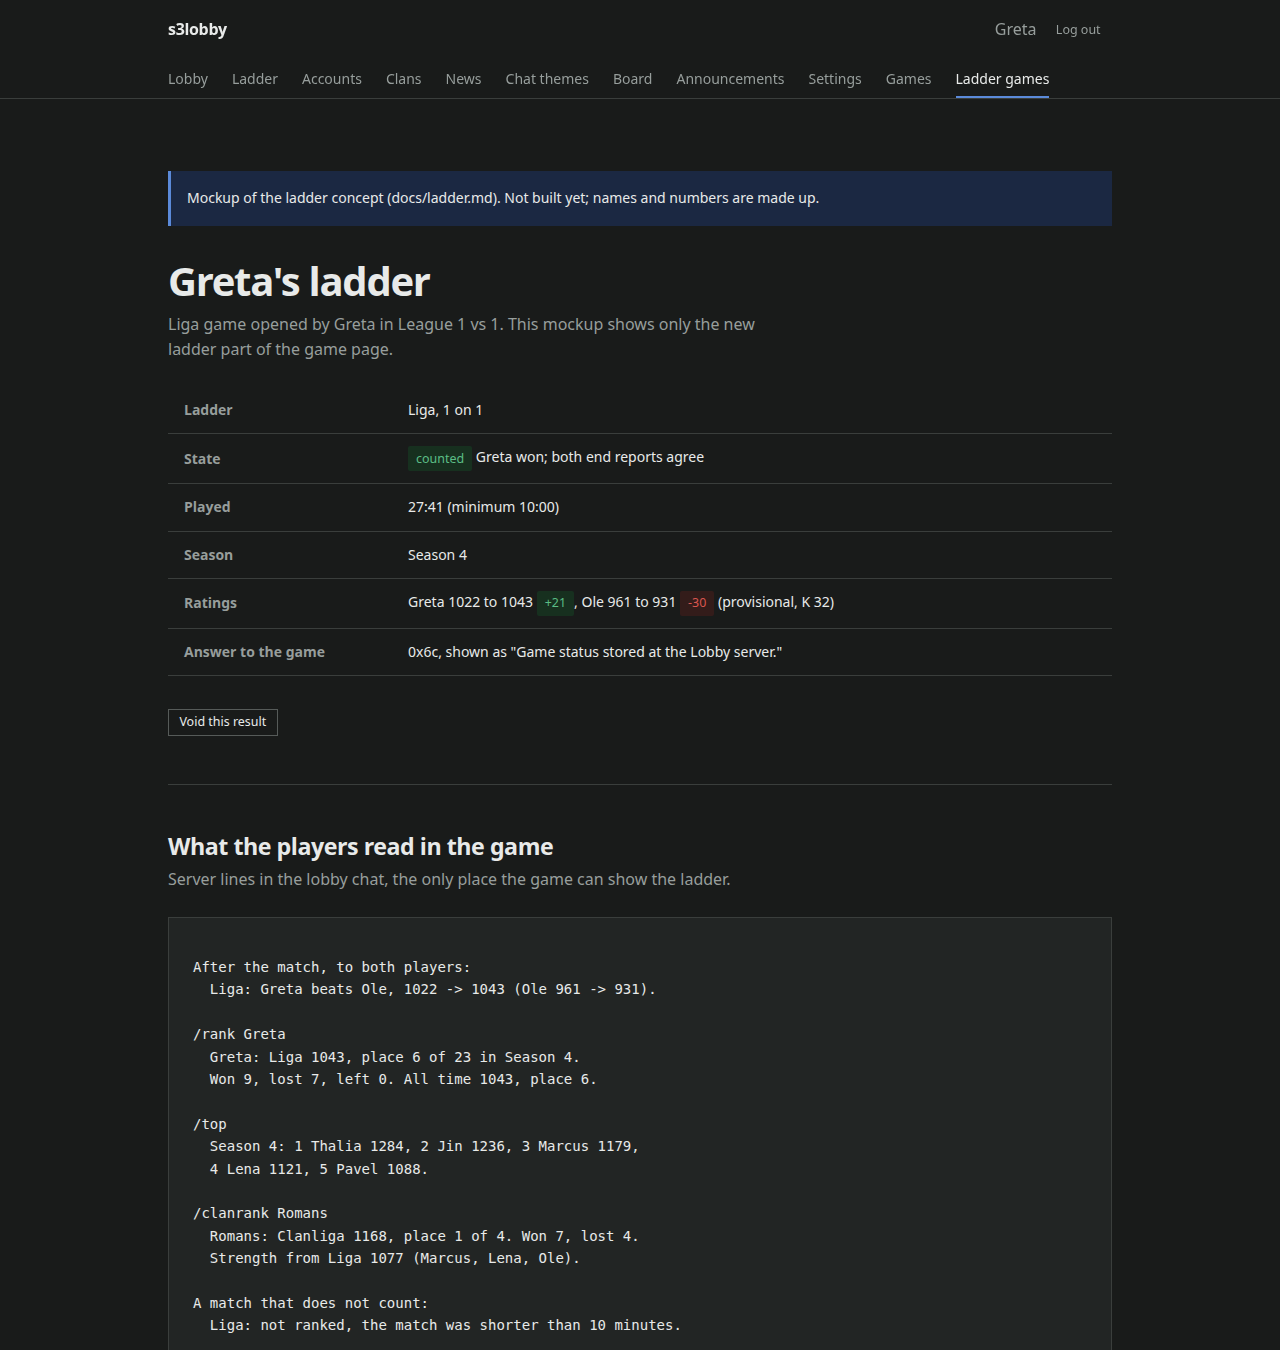
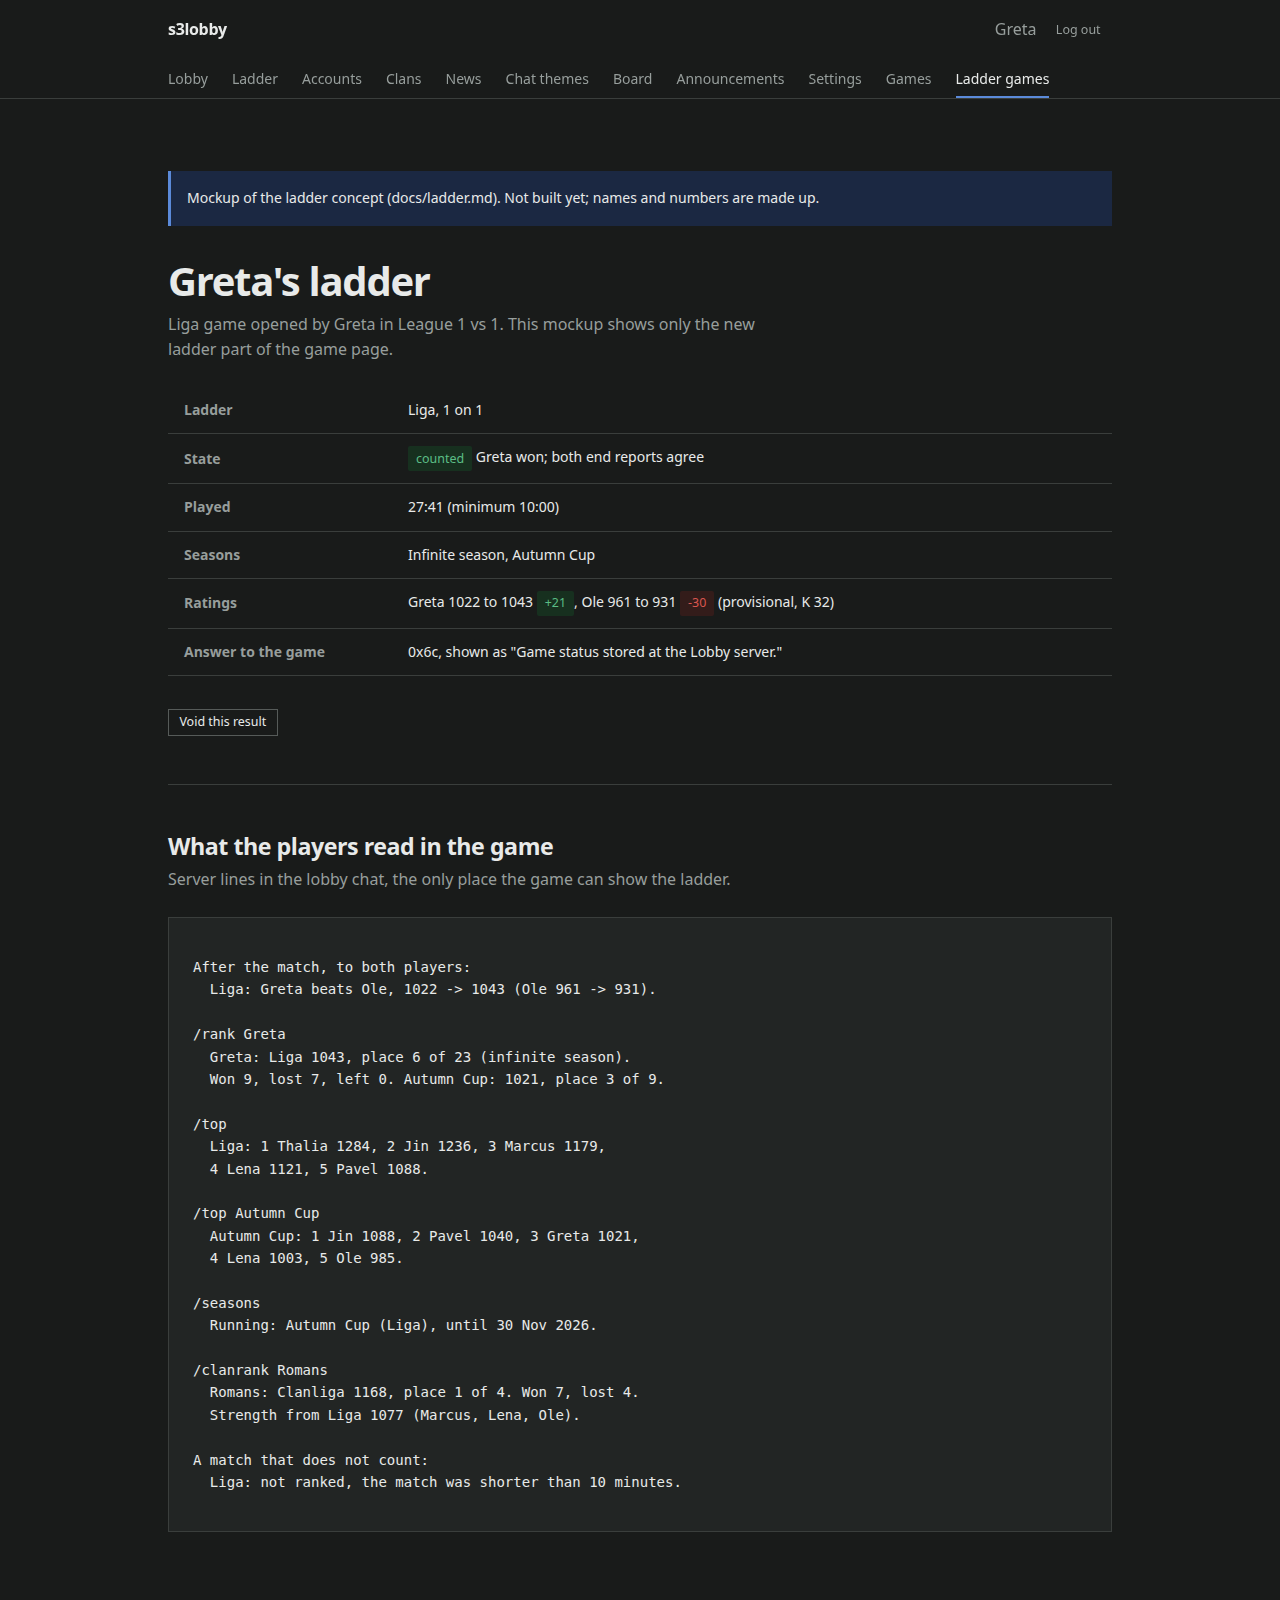
docs(ladder): run an infinite season and custom seasons admins create
The owner wants one ladder that never resets and, beside it, seasons admins create when they like: cups, tournaments, a clan summer. Seasons stay filters on the results, so several can run at once and one created for past dates shows its standings at once.

diff --git a/docs/mockups/ladder/ladder-admin.html b/docs/mockups/ladder/ladder-admin.html
@@ -50,18 +50,30 @@
   </div>
 </section>
 <section>
-  <div class="section-head"><h2>Seasons</h2></div>
+  <div class="section-head"><h2>Seasons</h2>
+  <p>The infinite season always runs and holds every counted result. Custom seasons count the
+  results between their dates, starting everyone at 1000; several may run at once.</p></div>
   <div class="scroll-x">
     <table class="table">
-      <thead><tr><th>Season</th><th>From</th><th>To</th><th>Liga champion</th><th>Clanliga champion</th></tr></thead>
+      <thead><tr><th>Season</th><th>From</th><th>To</th><th>Counts</th><th>Liga leader</th><th>Clanliga leader</th><th></th></tr></thead>
       <tbody>
-        <tr><td>Season 4 <span class="badge badge--good">current</span></td><td class="cell-time">2026-10-01</td><td class="cell-time">2026-12-31</td><td class="muted">-</td><td class="muted">-</td></tr>
-        <tr><td>Season 3</td><td class="cell-time">2026-07-01</td><td class="cell-time">2026-09-30</td><td>Jin (1302)</td><td>Amazons (1144)</td></tr>
-        <tr><td>Season 2</td><td class="cell-time">2026-04-01</td><td class="cell-time">2026-06-30</td><td>Thalia (1265)</td><td>Romans (1120)</td></tr>
+        <tr><td>Infinite season <span class="badge badge--accent">always</span></td><td class="cell-time">2026-06-01</td><td class="muted">-</td><td>Liga, Clanliga</td><td>Thalia (1284)</td><td>Romans (1168)</td><td></td></tr>
+        <tr><td>Autumn Cup <span class="badge badge--good">running</span></td><td class="cell-time">2026-10-01</td><td class="cell-time">2026-11-30</td><td>Liga</td><td>Jin (1088)</td><td class="muted">-</td><td><div class="cell-actions"><button class="btn btn--outline btn--sm" type="button">Edit</button><button class="btn btn--outline btn--sm" type="button">End now</button></div></td></tr>
+        <tr><td>LAN weekend <span class="badge">ended</span></td><td class="cell-time">2026-09-12</td><td class="cell-time">2026-09-13</td><td>Liga, Clanliga</td><td>Marcus (1061)</td><td>BB (1032)</td><td><div class="cell-actions"><button class="btn btn--outline btn--sm" type="button">Edit</button><button class="btn btn--outline btn--sm" type="button">Delete</button></div></td></tr>
+        <tr><td>Clan Summer <span class="badge">ended</span></td><td class="cell-time">2026-06-01</td><td class="cell-time">2026-08-31</td><td>Clanliga</td><td class="muted">-</td><td>Amazons (1144)</td><td><div class="cell-actions"><button class="btn btn--outline btn--sm" type="button">Edit</button><button class="btn btn--outline btn--sm" type="button">Delete</button></div></td></tr>
       </tbody>
     </table>
   </div>
-  <p class="meta">The next season is proposed for 3 months when the current one ends (setting <code>ladder_season_months</code>).</p>
+</section>
+<section>
+  <div class="section-head"><h2>New custom season</h2></div>
+  <div class="form-grid">
+    <label class="field"><span class="label">Name</span><input class="input" type="text" value="Spring Cup"></label>
+    <label class="field"><span class="label">Counts</span><select class="select"><option>Liga and Clanliga</option><option>Liga</option><option>Clanliga</option></select></label>
+    <label class="field"><span class="label">From</span><input class="input" type="date" value="2027-03-01"></label>
+    <label class="field"><span class="label">To</span><input class="input" type="date"><span class="hint">Empty: runs until an admin ends it.</span></label>
+  </div>
+  <div class="form-actions"><button class="btn btn--primary" type="button">Create season</button></div>
 </section>
 </main>
 <footer class="site-footer"><div class="wrap">s3lobby, a lobby server for The Settlers III. Times are in UTC.</div></footer>

diff --git a/docs/mockups/ladder/ladder-game.html b/docs/mockups/ladder/ladder-game.html
@@ -40,7 +40,7 @@
         <tr><th>Ladder</th><td>Liga, 1 on 1</td></tr>
         <tr><th>State</th><td><span class="badge badge--good">counted</span> Greta won; both end reports agree</td></tr>
         <tr><th>Played</th><td>27:41 (minimum 10:00)</td></tr>
-        <tr><th>Season</th><td>Season 4</td></tr>
+        <tr><th>Seasons</th><td>Infinite season, Autumn Cup</td></tr>
         <tr><th>Ratings</th><td>Greta 1022 to 1043 <span class="badge badge--good">+21</span>, Ole 961 to 931 <span class="badge badge--bad">-30</span> (provisional, K 32)</td></tr>
         <tr><th>Answer to the game</th><td>0x6c, shown as "Game status stored at the Lobby server."</td></tr>
       </tbody>
@@ -56,12 +56,19 @@
   Liga: Greta beats Ole, 1022 -> 1043 (Ole 961 -> 931).
 
 /rank Greta
-  Greta: Liga 1043, place 6 of 23 in Season 4.
-  Won 9, lost 7, left 0. All time 1043, place 6.
+  Greta: Liga 1043, place 6 of 23 (infinite season).
+  Won 9, lost 7, left 0. Autumn Cup: 1021, place 3 of 9.
 
 /top
-  Season 4: 1 Thalia 1284, 2 Jin 1236, 3 Marcus 1179,
+  Liga: 1 Thalia 1284, 2 Jin 1236, 3 Marcus 1179,
   4 Lena 1121, 5 Pavel 1088.
+
+/top Autumn Cup
+  Autumn Cup: 1 Jin 1088, 2 Pavel 1040, 3 Greta 1021,
+  4 Lena 1003, 5 Ole 985.
+
+/seasons
+  Running: Autumn Cup (Liga), until 30 Nov 2026.
 
 /clanrank Romans
   Romans: Clanliga 1168, place 1 of 4. Won 7, lost 4.

diff --git a/docs/mockups/ladder/ladder-liga.html b/docs/mockups/ladder/ladder-liga.html
@@ -26,9 +26,9 @@
     <p>Liga is 1 on 1 between two players; Clanliga is team against team between two clans. Ratings are Elo, everyone starts at 1000. A match counts when every player's game reports the same winner and it lasted at least 10 minutes.</p>
   </div>
   <div class="grid">
-    <div class="card"><h3>Days left in Season 4</h3><div class="stat-number">68</div></div>
+    <div class="card"><h3>Running custom seasons</h3><div class="stat-number">1</div></div>
     <div class="card"><h3>Ranked players</h3><div class="stat-number">23</div></div>
-    <div class="card"><h3>Matches this season</h3><div class="stat-number">147</div></div>
+    <div class="card"><h3>Counted matches</h3><div class="stat-number">147</div></div>
   </div>
 </section>
 
@@ -36,7 +36,7 @@
 <div class="form-grid">
   <label class="field">
     <span class="label">Season</span>
-    <select class="select"><option selected>Season 4: Oct to Dec 2026 (current)</option><option>Season 3: Jul to Sep 2026</option><option>Season 2: Apr to Jun 2026</option><option>All time</option></select>
+    <select class="select"><option selected>Infinite season (always running)</option><option>Autumn Cup: 1 Oct to 30 Nov 2026 (running)</option><option>Clan Summer: Jun to Aug 2026 (ended)</option><option>LAN weekend: 12 to 13 Sep 2026 (ended)</option></select>
   </label>
 </div>
 <section>

diff --git a/docs/mockups/ladder/ladder-clanliga.html b/docs/mockups/ladder/ladder-clanliga.html
@@ -26,9 +26,9 @@
     <p>Clans have two numbers: the Clanliga rating, from team matches between clans, and the strength from Liga, the average Liga rating of their best three active members.</p>
   </div>
   <div class="grid">
-    <div class="card"><h3>Days left in Season 4</h3><div class="stat-number">68</div></div>
+    <div class="card"><h3>Running custom seasons</h3><div class="stat-number">1</div></div>
     <div class="card"><h3>Ranked players</h3><div class="stat-number">23</div></div>
-    <div class="card"><h3>Matches this season</h3><div class="stat-number">147</div></div>
+    <div class="card"><h3>Counted matches</h3><div class="stat-number">147</div></div>
   </div>
 </section>
 
@@ -36,7 +36,7 @@
 <div class="form-grid">
   <label class="field">
     <span class="label">Season</span>
-    <select class="select"><option selected>Season 4: Oct to Dec 2026 (current)</option><option>Season 3: Jul to Sep 2026</option><option>Season 2: Apr to Jun 2026</option><option>All time</option></select>
+    <select class="select"><option selected>Infinite season (always running)</option><option>Autumn Cup: 1 Oct to 30 Nov 2026 (running)</option><option>Clan Summer: Jun to Aug 2026 (ended)</option><option>LAN weekend: 12 to 13 Sep 2026 (ended)</option></select>
   </label>
 </div>
 <section>

diff --git a/docs/ladder.md b/docs/ladder.md
@@ -125,18 +125,20 @@ Rules that keep clans fair:
   count at most `ladder_pair_daily_limit` (default 3) times per day; later ones are stored as void
   with that reason.
 
-### Seasons and all time
+### Seasons
 
-Both run side by side:
-
-- **All time:** every counted result since the ladder started, never reset.
-- **Seasons:** the current season's standings start everyone at the start value and use only that
-  season's results. A season is a date range set by admins (a name, a start, an end); the setting
-  `ladder_season_months` (default 3) proposes the next one automatically when the current one ends.
-  Past seasons stay readable with their final standings and champions.
+- **The infinite season** always runs: every counted result since the ladder started, never reset.
+  It is the ladder players see by default, in the game and on the web.
+- **Custom seasons** are created by admins whenever they like: a name, a start, an end (or none
+  until an admin ends it), and which ladders count (Liga, Clanliga or both). Examples: a "Winter
+  Cup" for December, a weekend tournament, a Clanliga season for the summer. In a custom season
+  everyone starts at the start value and only that season's results count. Several custom seasons
+  may run at the same time; one match then counts in each of them and in the infinite season.
+- Admins can rename a custom season, move its dates, end it early or delete it. An ended season
+  stays readable with its final standings and champions.
 
 Because ratings are derived, a season is only a filter on the results; nothing is copied or reset
-in the database.
+in the database, and a season created afterwards for past dates shows its standings at once.
 
 ## 3. What the players see
 
@@ -146,14 +148,15 @@ in the database.
   the other reports arrived, which the game cannot wait for.
 - **Back in the lobby**, a server line to the players of the match: "Liga: Alice beats Bob, 1016 ->
   1032 (Bob 984 -> 968)", "Clanliga: Romans beat Amazons, 1012 -> 1028", or why it did not count.
-- **Chat commands:** `/rank [NAME]` (season and all time: rating, place, won, lost, lost by
-  leaving, provisional or not), `/top` (the season's first five), `/clanrank [CLAN]` (Clanliga
-  rating and strength from Liga), `/season` (name and end of the current season).
-- **Home tab:** the news text can end with the season's top five players and clans. The game
+- **Chat commands:** `/rank [NAME]` (infinite season and every running custom season: rating,
+  place, won, lost, lost by leaving, provisional or not), `/top [SEASON]` (the first five, of the
+  infinite season unless one is named), `/clanrank [CLAN]` (Clanliga rating and strength from
+  Liga), `/seasons` (the running custom seasons and when they end).
+- **Home tab:** the news text can end with the infinite season's top five players and clans. The game
   fetches it once per logon, so it shows the standings as of the logon (protocol.md,
   GetTextMessage).
 - **Web interface:** a public page `/ladder` like the live lobby, with tabs Liga, Clanliga and
-  clan strength, a switch between the current season, past seasons and all time, and the last
+  clan strength, a choice between the infinite season and the custom ones (running first, then ended), and the last
   results; the rating on each account and clan page; on each game page whether and how it counted.
 - Not planned: showing the rank in the member list's clan column. It would work technically (the
   column shows whatever text the server sends), but it hides the clan and changes what a run
@@ -164,7 +167,8 @@ in the database.
 - See every ladder game with its state: counted, disputed, void, with the reason.
 - Decide a disputed result (pick the winner) or void a counted one, in the web interface and with
   `s3lobby ladder decide|void GAME_ID`; ratings follow at once because they are derived.
-- Manage seasons: `s3lobby ladder season add NAME --start DATE --end DATE` and on the web.
+- Manage custom seasons on the web and with `s3lobby ladder season add NAME --start DATE
+  [--end DATE] [--ladder liga|clanliga|both]`, `season edit`, `season end` and `season delete`.
 - Every number is a setting, on the Settings page and with `s3lobby setting set`:
 
   | Setting | Default | Meaning |
@@ -179,7 +183,6 @@ in the database.
   | `ladder_provisional_games` | 10 | how many results are provisional |
   | `ladder_active_days` | 30 | how recent a Liga result must be for the clan strength |
   | `ladder_clan_member_days` | 3 | how long a player must be in a clan for Clanliga |
-  | `ladder_season_months` | 3 | length proposed for the next season |
 
 ## 5. Database (one migration, 0010, for every dialect)
 
@@ -187,7 +190,8 @@ in the database.
   game time, decided at, decided by (server or an admin account).
 - `ladder_result_players`: result id, account id, clan id at the time (for Clanliga), team, race,
   won, left.
-- `ladder_seasons`: name, start, end.
+- `ladder_seasons`: name, start, end (null while open), ladders counted, created by. The
+  infinite season is not a row: it is all results.
 - `accounts.clan_joined_at`: when the account joined its current clan (null for the members of
   today; they count as members since before the ladder started).
 - No rating table: ratings are computed from the results when asked and cached in memory by the
@@ -205,7 +209,7 @@ Static pages on the web interface's own stylesheets, with made up names and numb
 |---|---|
 | [Liga](mockups/ladder/ladder-liga-light.png) ([dark](mockups/ladder/ladder-liga-dark.png)) | the public `/ladder` page: season choice, standings with rating, last change, won, lost, left, provisional players, and the last results |
 | [Clanliga](mockups/ladder/ladder-clanliga-light.png) ([dark](mockups/ladder/ladder-clanliga-dark.png)) | the clans' Clanliga ratings and their strength from Liga |
-| [Ladder games](mockups/ladder/ladder-admin-light.png) ([dark](mockups/ladder/ladder-admin-dark.png)) | for admins: every evaluated game with its state and reason, deciding and voiding, the seasons and their champions |
+| [Ladder games](mockups/ladder/ladder-admin-light.png) ([dark](mockups/ladder/ladder-admin-dark.png)) | for admins: every evaluated game with its state and reason, deciding and voiding, the infinite season and the custom seasons with their champions |
 | [Game page](mockups/ladder/ladder-game-light.png) ([dark](mockups/ladder/ladder-game-dark.png)) | the ladder part of a game's page, and the server lines and chat command answers the players read in the game |
 
 ## Building it in steps
@@ -214,7 +218,7 @@ Static pages on the web interface's own stylesheets, with made up names and numb
    "not ranked" line, but evaluates every ladder game into `ladder_results`. The admin pages show
    the outcome, so the rules can be checked against real matches first. A run has to confirm the
    open points below.
-2. **Standings.** Liga and Clanliga ratings, clan strength, seasons and all time, the public
+2. **Standings.** Liga and Clanliga ratings, clan strength, the infinite season and custom seasons, the public
    `/ladder` page, the chat commands, the server line after a match, the admin decisions.
 3. **Tell the game.** With `ladder_enabled` on, valid end reports get 0x6c and the "not ranked"
    line goes away. Off by default until a run with the real game shows the message (project rule
@@ -236,5 +240,5 @@ Static pages on the web interface's own stylesheets, with made up names and numb
 1. Elo, and a concept for clans (section 2, Clans).
 2. Leaving: decided by recommendation (section 1, A player who leaves).
 3. Minimum game time and daily limit per pair, both configurable (section 4).
-4. Seasons and all time side by side (section 2, Seasons and all time).
+4. An infinite season that always runs, and custom seasons admins create (section 2, Seasons).
 5. Clanliga in the first version.
